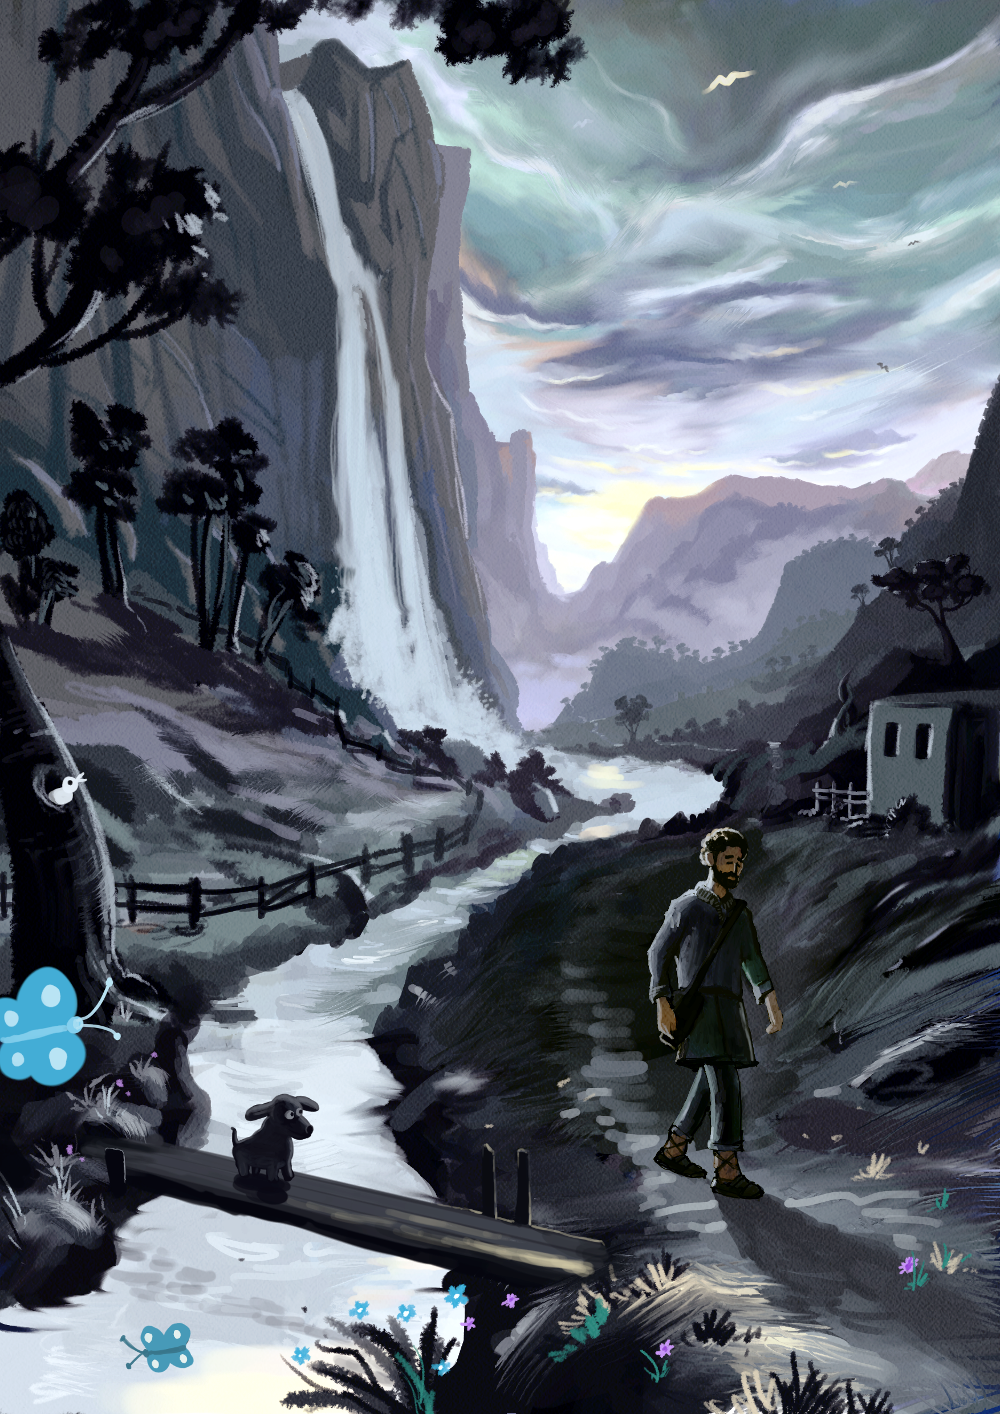
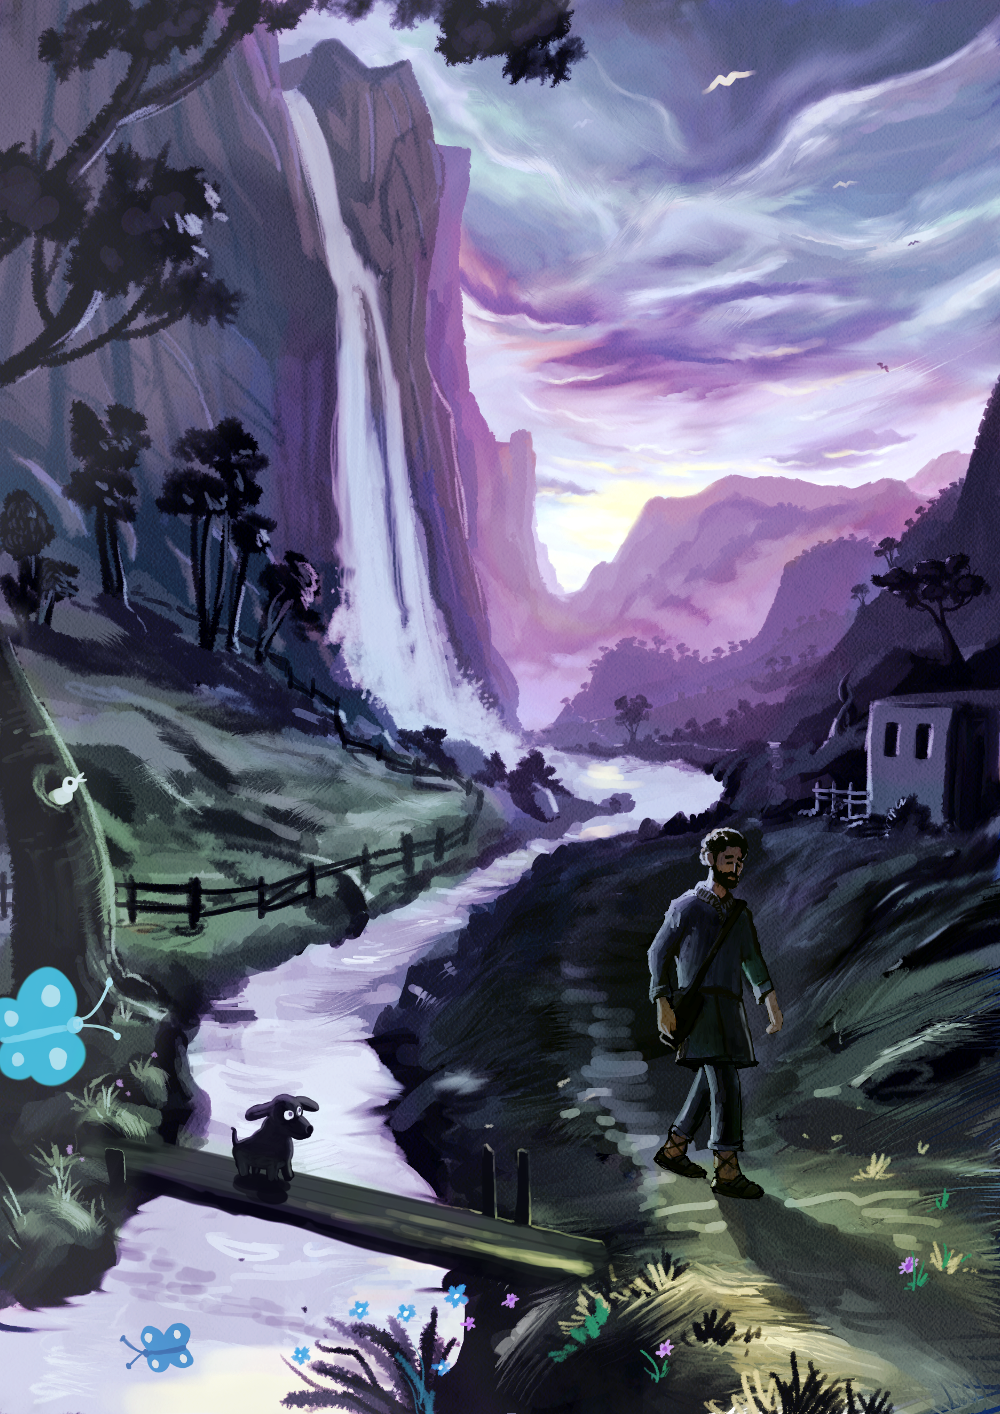
More color in 03.

diff --git a/script.js b/script.js
@@ -4,7 +4,7 @@ angular.module('galleryApp', [])
     gallery.language = "ro";
     gallery.work_start_date = new Date(2016,05,20);
 
-    gallery.worked_hours = 109;  // EDIT HERE
+    gallery.worked_hours = 109.5;  // EDIT HERE
 
     gallery.get_global_progress = function() {
       var index;
@@ -148,7 +148,7 @@ angular.module('galleryApp', [])
       {
         id: 3,
         img: '03.png',
-        done: 90,
+        done: 95,
         text: {
           ro: "1:3A. Şi Iona s-a sculat să fugă la Tars, departe de faţa Domnului.",
           en: "1:3A. But Jonah rose up to flee unto Tarshish from the presence of the LORD,"
